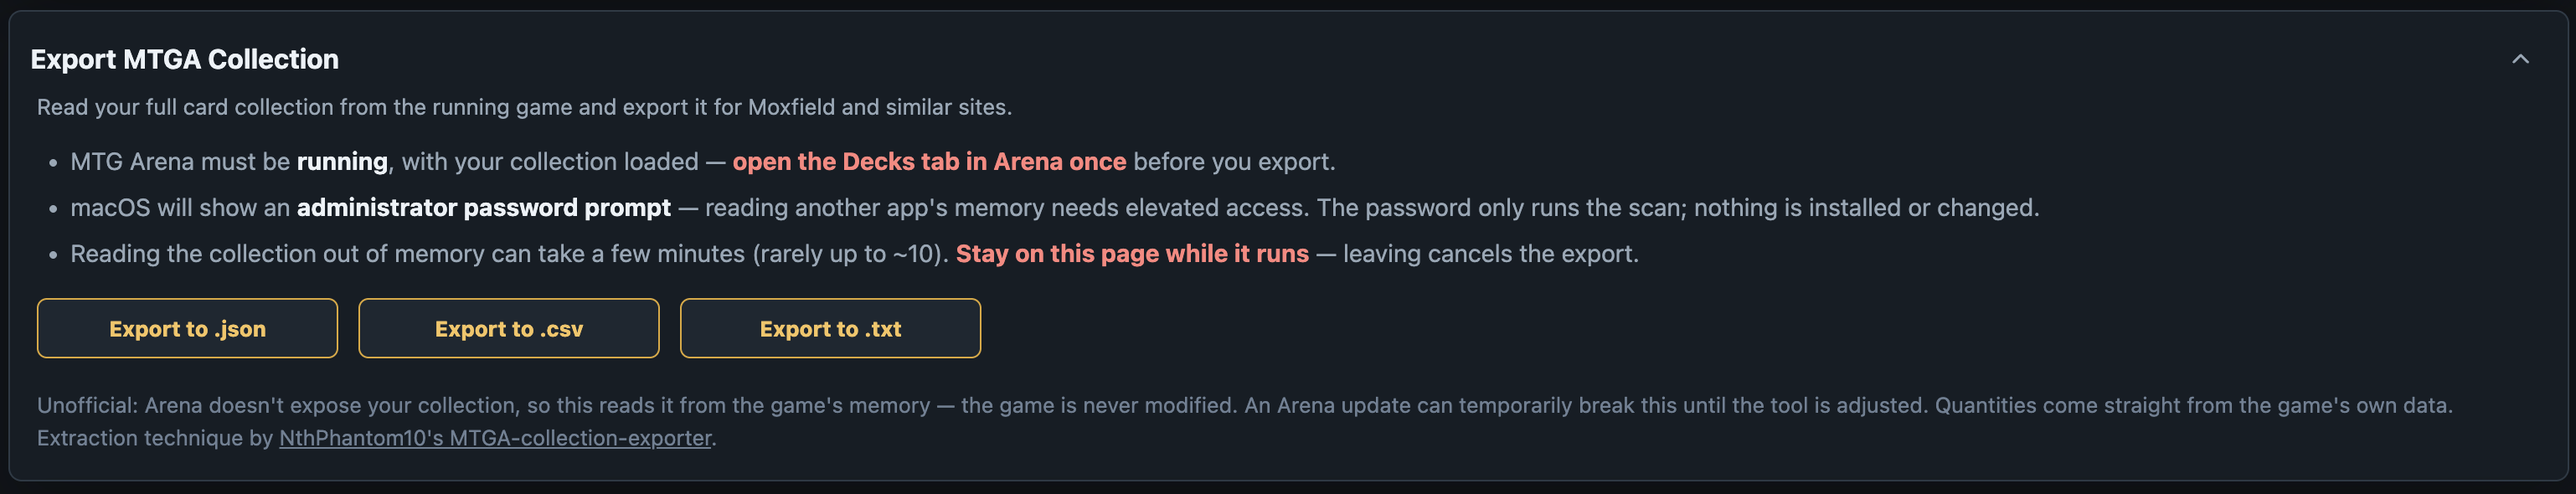
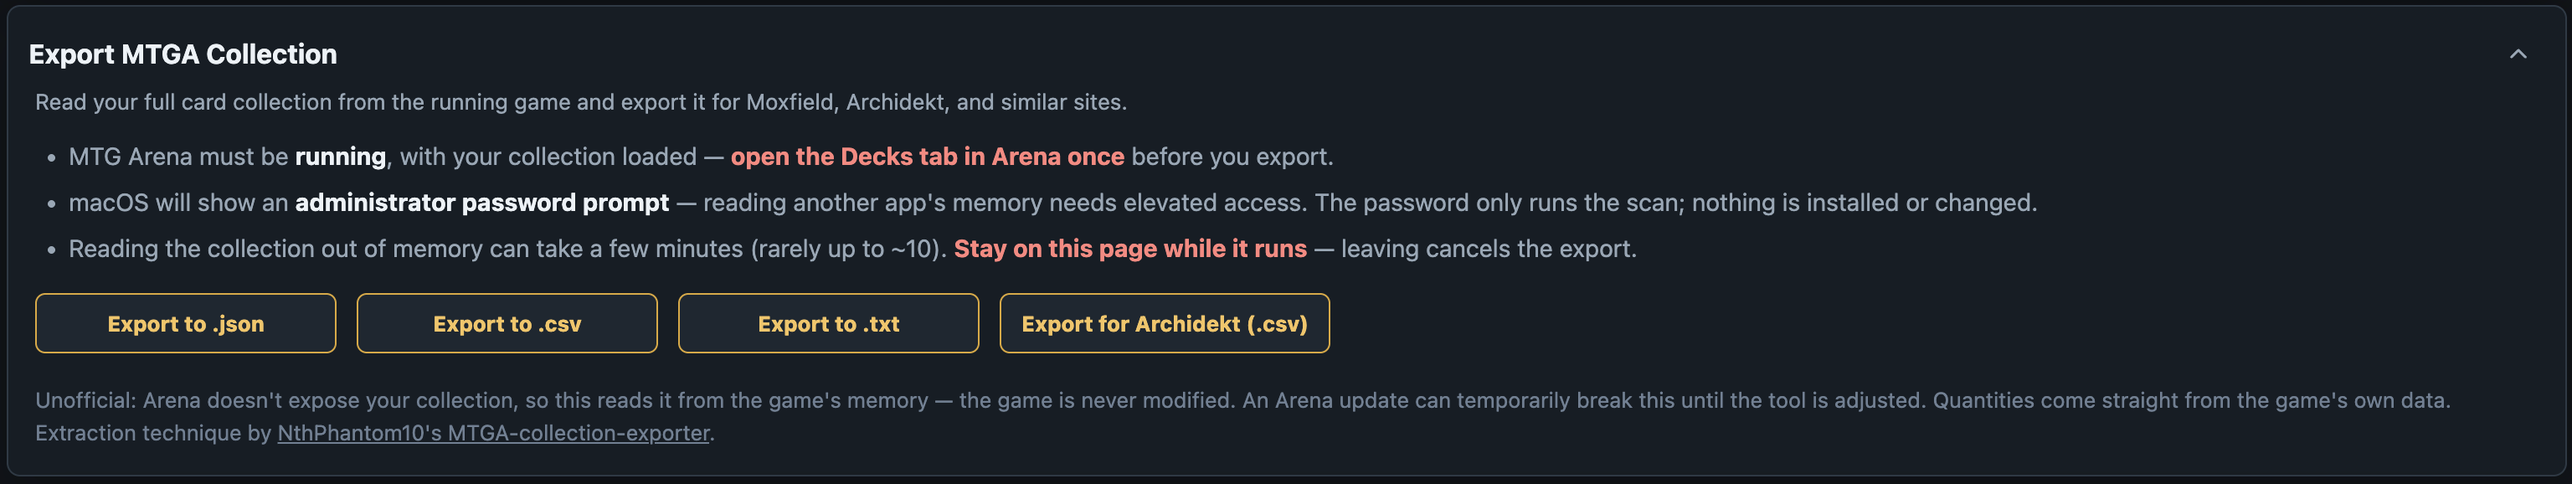
Changelog for 0.5.9.2; refresh collection-export screenshot

diff --git a/CHANGELOG.md b/CHANGELOG.md
@@ -1,5 +1,23 @@
 # Changelog
 
+## 0.5.9.2
+
+- **Fixed: exports could grab a deck instead of your collection.** Arena keeps
+  deck objects in memory that look exactly like a collection block, and the
+  scanner could return one (34 cards exported instead of thousands). Candidate
+  blocks are now gathered across all of Arena's memory and the largest valid
+  one wins; deck-sized blocks are rejected outright.
+- **Fixed: missing set codes on non-default installs.** The export now finds
+  Arena's card database via the install path Arena announces in its own log,
+  so set codes fill in on any install location — and if the database still
+  can't be found, the export says so instead of quietly shrinking.
+- **New: Export for Archidekt.** A fourth export format whose Scryfall ID
+  column removes all import ambiguity (Moxfield reads it too). IDs resolve
+  through Scryfall's batch API with fallbacks for Arena's mismatched
+  collector numbers (Alchemy sets, special prints), then cache locally so
+  repeat exports are instant and offline.
+- Card names no longer carry Arena's `<nobr>` markup in exports.
+
 ## 0.5.9.1
 
 - **Fixed: collection export crashed on Windows** with "int() argument must
